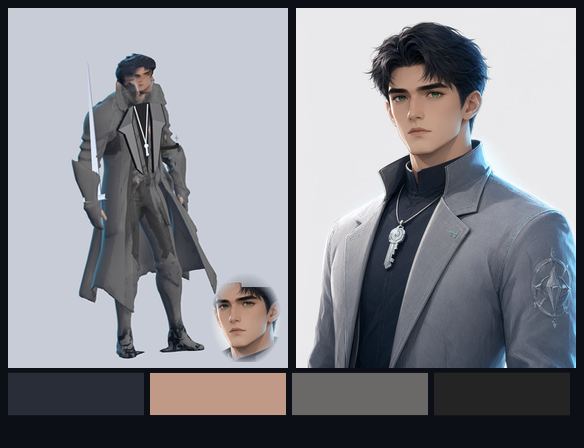
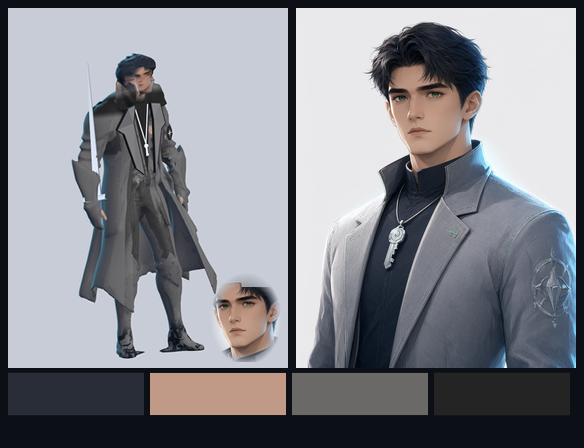
棋盘棋子 P1d：猎人清脸/提亮/长发/棱角冰甲、棋盘降白；队长翻折翻领、星章可见、领口转黑高领 (#310)

Changed region(s): [[0.1541, 0.1875, 0.3082, 0.375]]

diff --git a/docs/design/pawn-redesign-opus.md b/docs/design/pawn-redesign-opus.md
@@ -712,3 +712,4 @@ void fragment() {
 - 队长外套：程序化西装翻领 + 黑色内搭 V 区 + 钥匙项链（BoneAttachment3D 挂 chest）。
 - 棋盘：我方 exposure 1.22 / 阴影底 0.64，敌方 1.12；衣物明暗取 mip3 粗采样，去掉细碎黑点。
 - P1c：脸贴花改为绕头轴的圆柱投影 + 角度遮罩（不依赖重拓扑头部的噪声法线），贴花区域光照压平；棋盘尺度用粗 mip 的高对比简化脸（眉/眼/发形）。头骨 ×1.10。山贼不贴立绘脸，头部保留模型自带手绘贴图（兜帽阴影）。猎人加白毛领、银额环、冰甲肩甲；队长翻领加厚度与边线、左袖臂章+银星；领袖衣色中性灰。
+- P1d：猎人脸内清除模型深色发片（脸椭圆内转肤色）、肤色取立绘最亮 30% 肤色像素；长发（冠部+22 缕+侧缕+碎刘海，挂 head 骨）；冰甲改为三片棱角冰片；棋盘按外套亮度降曝光。队长翻领翻折（翻折线抬高）、8 角星章+深色底托、领口带转黑色高领。
